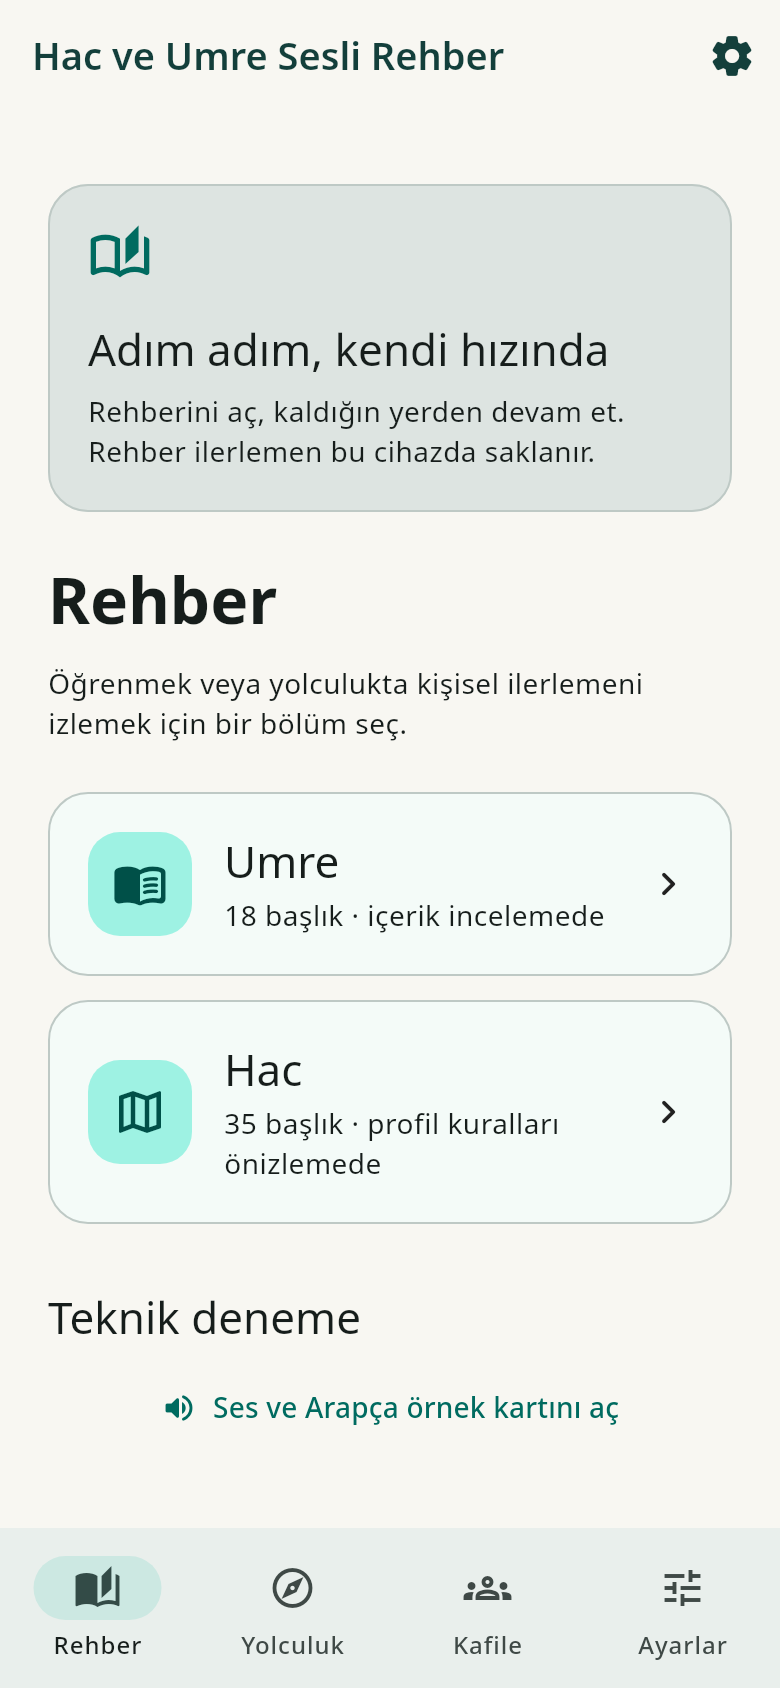
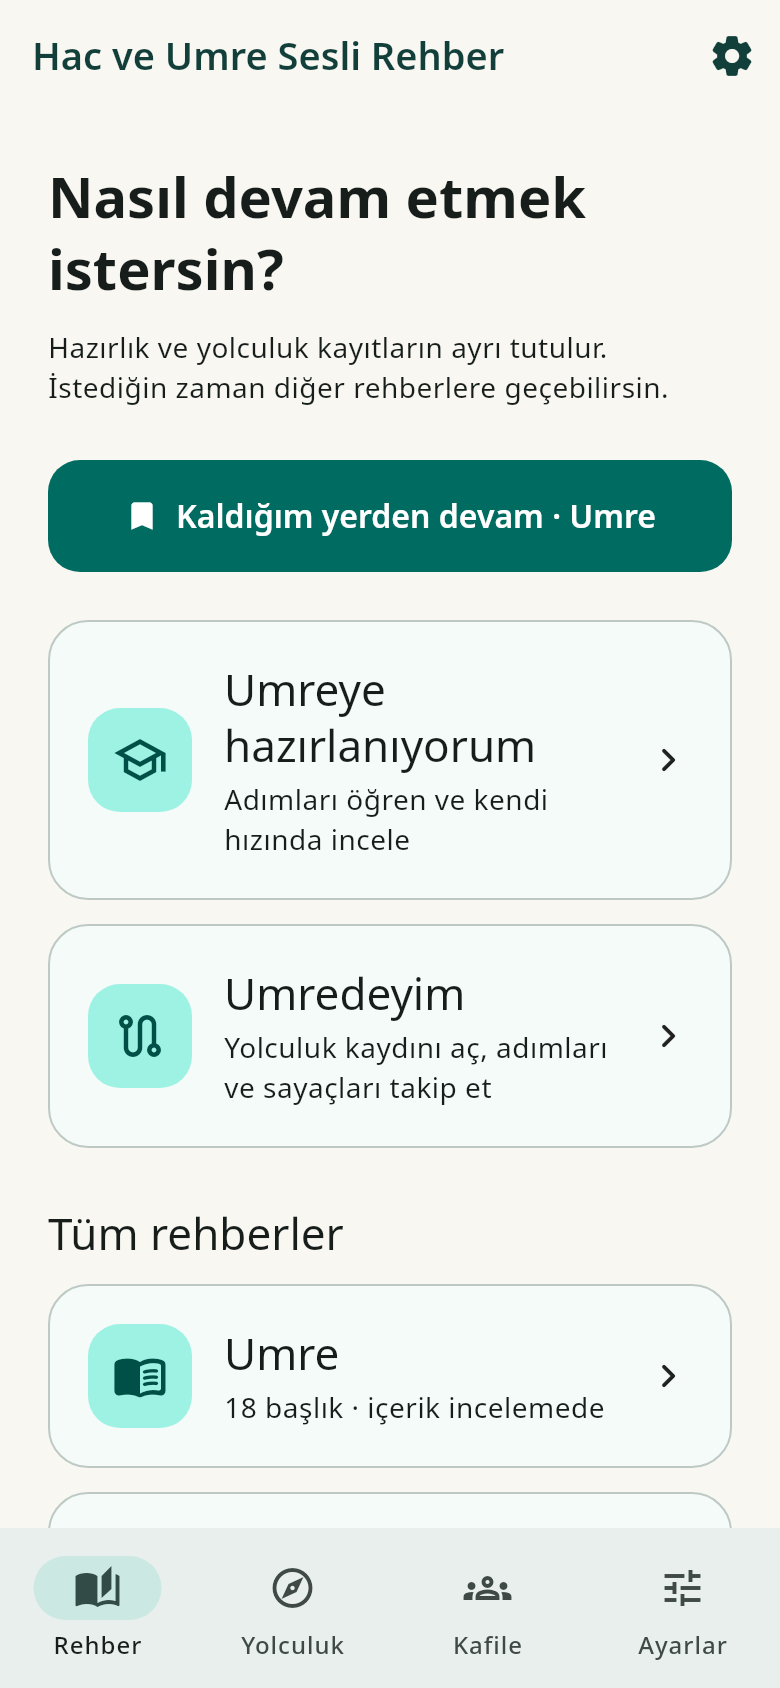
Record UX verification, updated home render and Android pilot delivery

diff --git a/docs/07-ozellikleri-koruyan-ux.md b/docs/07-ozellikleri-koruyan-ux.md
@@ -8,4 +8,10 @@ Kafile, gezi/yer/rota, güvenli iletişim/dil, çevrimdışı paket, ayarlar ve 
 
 ## Doğrulama
 
-Mevcut UI matrisi 320×568 ve 390×844 ekranlarda %100/%200 yazı ile doğrudan girişleri de açıp kapatır; öğrenme ve yolculuk kayıtlarının ayrı oluştuğunu kontrol eder. Mevcut eski seçim, Hac profili, paket yenileme, ses, sayaç ve ilerleme testleri korunur. CI ekran renderlarını ui-preview artifact olarak verir. Yerel Dart biçimlendirmesi çalıştırıldı; Flutter analiz/test ve Android build CI üzerinden doğrulanacak. Yeni APK bu doğrulama bitmeden hazır sayılmaz. Fiziksel telefon kabulü ayrıdır.
+Mevcut UI matrisi 320×568 ve 390×844 ekranlarda %100/%200 yazı ile doğrudan girişleri de açıp kapatır; öğrenme ve yolculuk kayıtlarının ayrı oluştuğunu kontrol eder. Mevcut eski seçim, Hac profili, paket yenileme, ses, sayaç ve ilerleme testleri korunur. CI ekran renderlarını ui-preview artifact olarak verir. Yerel Dart biçimlendirmesi çalıştırıldı. `8e871203f517aba56946d98c0c761e79999eed69` commit için https://github.com/NeoTuck/kabe_hac/actions/runs/37590553180 başarılı: analiz/format, 87 Flutter testi, ses dosyası QA, database, Android debug APK ve iOS debug/no-codesign. Ana ekranın yeni gerçek Flutter görüntüsü incelendi ve docs/mvp-ui/home.png içine kaydedildi. Fiziksel telefon kabulü ayrıdır.
+
+## APK teslimi
+
[1 lines of base64/hex data omitted]
+
+Bu CI çalışmasının debug imza sertifikası önceki APK ile farklıdır (önceki: af8989aa7d2949a685861e540d425a1da609aa4aba2b4409a05a80a59ef04737; yeni: c72ba0e62cba2839b1513badb9bfda92121b715f72856bf9439bbfa856bb21df). Önceki APK'nın üstüne normal güncelleme kabul edilmeyebilir. İlerleme kaydı bulunan kullanıcıya uygulamayı kaldırma/veri temizleme önerilmez; veri aktarımı ve kalıcı güvenli imzalama ayrı ele alınmalıdır. Mobil kurulum veya fiziksel ses testi yapılmış sayılmaz.

diff --git a/AGENTS.md b/AGENTS.md
@@ -58,7 +58,7 @@ Yalnız plan bırakma. Erişilebilen bağımsız işi tamamla. Dinî içerik, uz
 
 - Umre hazırlığı ve yolculuk için doğrudan girişler eklendi; mevcut Umre/Hac seçim akışları, kafile/gezi/güvenlik/paket/ayarlar ve teknik deneme korunur.
 - Adım ekranında açıklama, ses ve manuel sayaç öne alınır; dua, kaynak, ayrıntı, önceki/sonraki ve kişisel işaretleme korunur. İçerik onayı veya veri şeması değişmez.
-- Bu UI değişikliğinin CI, küçük ekran/büyük yazı ve APK kabulü henüz bekliyor. Ayrıntı: `docs/07-ozellikleri-koruyan-ux.md`.
[1 lines of base64/hex data omitted]
 
 ### GitHub devir durumu
 
